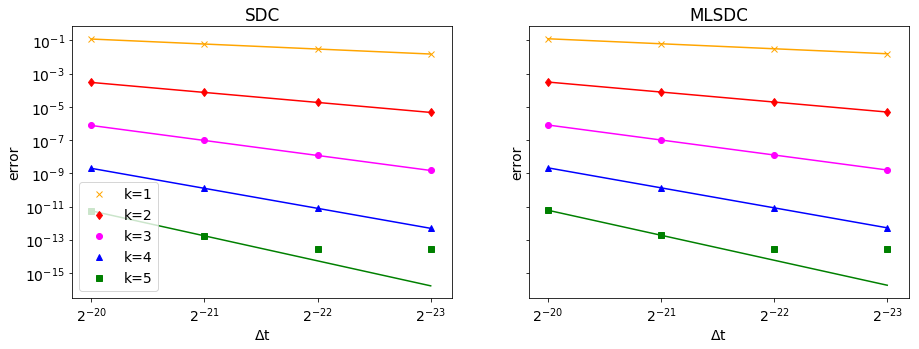
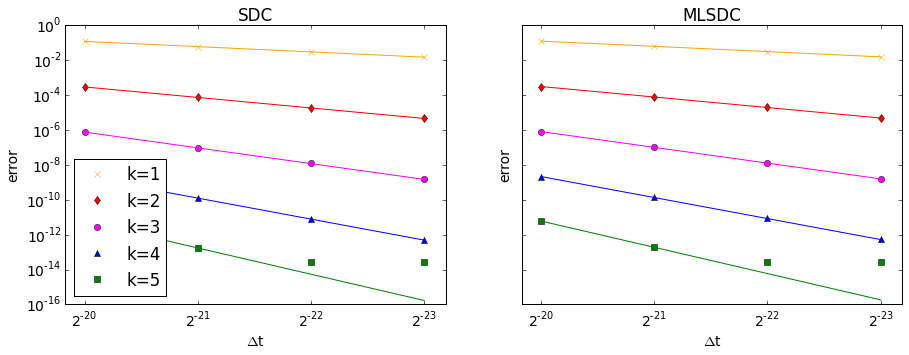
made merge complete (adapted initial guess structure and defined new class for sweeper with random initial guess possibility)

diff --git a/pySDC/projects/mlsdc_convergence/sweeper_random_initial_guess.py b/pySDC/projects/mlsdc_convergence/sweeper_random_initial_guess.py
@@ -1,0 +1,42 @@
+from pySDC.core.Errors import ParameterError
+from pySDC.implementations.sweeper_classes.generic_implicit import generic_implicit
+import numpy as np
+
+class sweeper_random_initial_guess(generic_implicit):
+    
+    def predict(self):
+        """
+        Predictor to fill values at nodes before first sweep
+    
+        Default prediction for the sweepers, only copies the values to all collocation nodes
+        and evaluates the RHS of the ODE there
+        """
+        
+        # get current level and problem description
+        L = self.level
+        P = L.prob
+    
+        # evaluate RHS at left point
+        L.f[0] = P.eval_f(L.u[0], L.time)
+    
+        for m in range(1, self.coll.num_nodes + 1):
+            # copy u[0] to all collocation nodes, evaluate RHS
+            if self.params.initial_guess == 'spread':
+                L.u[m] = P.dtype_u(L.u[0])
+                L.f[m] = P.eval_f(L.u[m], L.time + L.dt * self.coll.nodes[m - 1])
+            # start with zero everywhere
+            elif self.params.initial_guess == 'zero':
+                L.u[m] = P.dtype_u(init=P.init, val=0.0)
+                L.f[m] = P.dtype_f(init=P.init, val=0.0)
+            elif self.params.initial_guess == 'random':
+                np.random.seed(m*30)
+                tmp = P.dtype_u(P.init)
+                tmp.values = np.random.rand(P.init)
+                L.u[m] = P.dtype_u(tmp)
+                L.f[m] = P.eval_f(L.u[m], L.time + L.dt * self.coll.nodes[m - 1])
+            else:
+                raise ParameterError('initial_guess option {self.params.initial_guess} not implemented')
+    
+        # indicate that this level is now ready for sweeps
+        L.status.unlocked = True
+        L.status.updated = True

diff --git a/pySDC/projects/mlsdc_convergence/solve_vanderpol.py b/pySDC/projects/mlsdc_convergence/solve_vanderpol.py
@@ -1,7 +1,7 @@
 # import required classes from pySDC ...
 from pySDC.implementations.collocation_classes.gauss_radau_right import CollGaussRadau_Right
 from pySDC.implementations.problem_classes.Van_der_Pol_implicit import vanderpol
-from pySDC.implementations.sweeper_classes.generic_implicit import generic_implicit
+from sweeper_random_initial_guess import sweeper_random_initial_guess
 from pySDC.implementations.transfer_classes.TransferMesh import mesh_to_mesh
 from pySDC.implementations.controller_classes.controller_nonMPI import controller_nonMPI
 
@@ -25,7 +25,7 @@ def solve_vanderpol(m, random_init, niter_arr, nsteps_arr, only_uend, fname_erro
     sweeper_params_sdc['collocation_class'] = CollGaussRadau_Right
     sweeper_params_sdc['num_nodes'] = m[0]
     sweeper_params_sdc['QI'] = 'IE'
-    sweeper_params_sdc['spread'] = not random_init
+    sweeper_params_sdc['initial_guess'] = 'random' if random_init else 'spread'
     
     sweeper_params_mlsdc = sweeper_params_sdc.copy()
     sweeper_params_mlsdc['num_nodes'] = m
@@ -52,7 +52,7 @@ def solve_vanderpol(m, random_init, niter_arr, nsteps_arr, only_uend, fname_erro
     description_sdc['problem_params'] = problem_params
 #    description_sdc['dtype_u'] = mesh
 #    description_sdc['dtype_f'] = mesh
-    description_sdc['sweeper_class'] = generic_implicit
+    description_sdc['sweeper_class'] = sweeper_random_initial_guess
     description_sdc['sweeper_params'] = sweeper_params_sdc
     
     description_mlsdc = description_sdc.copy()

diff --git a/pySDC/projects/mlsdc_convergence/solve_heat1d.py b/pySDC/projects/mlsdc_convergence/solve_heat1d.py
@@ -1,7 +1,7 @@
 # import required classes from pySDC ...
 from pySDC.implementations.collocation_classes.gauss_radau_right import CollGaussRadau_Right
 from pySDC.implementations.problem_classes.HeatEquation_1D_FD import heat1d
-from pySDC.implementations.sweeper_classes.generic_implicit import generic_implicit
+from sweeper_random_initial_guess import sweeper_random_initial_guess
 from pySDC.implementations.transfer_classes.TransferMesh import mesh_to_mesh
 from pySDC.implementations.controller_classes.controller_nonMPI import controller_nonMPI
 
@@ -25,7 +25,7 @@ def solve_heat1d(m, n, iorder, nu, freq, random_init, niter_arr, nsteps_arr, onl
     sweeper_params_sdc['collocation_class'] = CollGaussRadau_Right
     sweeper_params_sdc['num_nodes'] = m[0]
     sweeper_params_sdc['QI'] = 'IE'
-    sweeper_params_sdc['spread'] = not random_init
+    sweeper_params_sdc['initial_guess'] = 'random' if random_init else 'spread'
     
     sweeper_params_mlsdc = sweeper_params_sdc.copy()
     sweeper_params_mlsdc['num_nodes'] = m
@@ -58,7 +58,7 @@ def solve_heat1d(m, n, iorder, nu, freq, random_init, niter_arr, nsteps_arr, onl
     description_sdc['problem_params'] = problem_params_sdc
 #    description_sdc['dtype_u'] = mesh
 #    description_sdc['dtype_f'] = mesh
-    description_sdc['sweeper_class'] = generic_implicit
+    description_sdc['sweeper_class'] = sweeper_random_initial_guess
     description_sdc['sweeper_params'] = sweeper_params_sdc
     
     description_mlsdc = description_sdc.copy()

diff --git a/pySDC/projects/mlsdc_convergence/solve_auzinger.py b/pySDC/projects/mlsdc_convergence/solve_auzinger.py
@@ -1,7 +1,7 @@
 # import required classes from pySDC ...
 from pySDC.implementations.collocation_classes.gauss_radau_right import CollGaussRadau_Right
 from pySDC.implementations.problem_classes.Auzinger_implicit import auzinger
-from pySDC.implementations.sweeper_classes.generic_implicit import generic_implicit
+from sweeper_random_initial_guess import sweeper_random_initial_guess
 from pySDC.implementations.transfer_classes.TransferMesh import mesh_to_mesh
 from pySDC.implementations.controller_classes.controller_nonMPI import controller_nonMPI
 
@@ -25,7 +25,7 @@ def solve_auzinger(m, random_init, niter_arr, nsteps_arr, only_uend, fname_error
     sweeper_params_sdc['collocation_class'] = CollGaussRadau_Right
     sweeper_params_sdc['num_nodes'] = m[0]
     sweeper_params_sdc['QI'] = 'IE'
-    sweeper_params_sdc['spread'] = not random_init
+    sweeper_params_sdc['initial_guess'] = 'random' if random_init else 'spread'
     
     sweeper_params_mlsdc = sweeper_params_sdc.copy()
     sweeper_params_mlsdc['num_nodes'] = m
@@ -55,7 +55,7 @@ def solve_auzinger(m, random_init, niter_arr, nsteps_arr, only_uend, fname_error
     description_sdc['problem_params'] = problem_params
 #    description_sdc['dtype_u'] = mesh
 #    description_sdc['dtype_f'] = mesh
-    description_sdc['sweeper_class'] = generic_implicit
+    description_sdc['sweeper_class'] = sweeper_random_initial_guess
     description_sdc['sweeper_params'] = sweeper_params_sdc
     
     description_mlsdc = description_sdc.copy()
